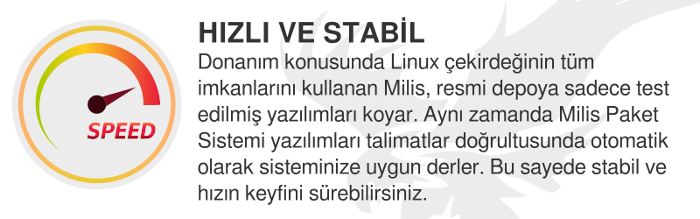
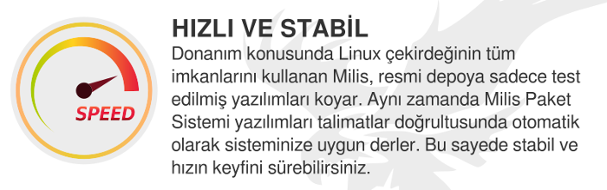
Yuzde icin farklı bir aletrnatif

diff --git a/ana.py b/ana.py
@@ -10,6 +10,7 @@ import os
 import sys
 #import site
 import yaml
+import time
 
 class merkezSinif(QMainWindow):
     def __init__(self,ebeveyn=None):
@@ -163,27 +164,29 @@ sistem başlamayacaktır."""),0,0,1,2)
     def kurulumEkraniDestesi(self):
         self.slaytnumarasi=1
         kurulumWidget=QWidget()
-        kurulumKutu=QGridLayout()
+        kurulumKutu=QVBoxLayout()
         kurulumWidget.setLayout(kurulumKutu)
+        inceleKutu=QHBoxLayout()
+        kurulumKutu.addLayout(inceleKutu)
         inceleDugme=QPushButton("İncele")
         inceleDugme.setFixedHeight(25)
         inceleDugme.pressed.connect(self.kurulumBilgiFonksiyon)
-        kurulumKutu.addWidget(inceleDugme,0,0,1,1)
+        inceleKutu.addWidget(inceleDugme)
         self.kurulumBaslatDugme=QPushButton("Kurulumu Başlat")
         self.kurulumBaslatDugme.setFixedHeight(25)
         self.kurulumBaslatDugme.pressed.connect(self.kurulumFonksiyon)
-        kurulumKutu.addWidget(self.kurulumBaslatDugme,0,1,1,1)
+        inceleKutu.addWidget(self.kurulumBaslatDugme)
         self.slaytci=QLabel("Milis yükleyici kurulum için gerekli bilgileri topladı\nBaşlata tıklamanız halinde kurulum başlayacak\nve değişiklikler disklere uygulanacaktur.")
         self.slaytci.setAlignment(Qt.AlignCenter)
         self.slaytci.setFixedWidth(800)
-        self.slaytci.setFixedHeight(250)
-        kurulumKutu.addWidget(self.slaytci,1,0,1,2)
+        self.slaytci.setFixedHeight(190)
+        kurulumKutu.addWidget(self.slaytci)
         self.kurulumBilgisiLabel=QLabel()
         self.kurulumBilgisiLabel.setFixedHeight(25)
-        kurulumKutu.addWidget(self.kurulumBilgisiLabel,2,0,1,2)
+        kurulumKutu.addWidget(self.kurulumBilgisiLabel)
         self.surecCubugu = QProgressBar()
         self.surecCubugu.setFixedHeight(25)
-        kurulumKutu.addWidget(self.surecCubugu,3,0,1,2)
+        kurulumKutu.addWidget(self.surecCubugu)
 
         self.zaman = QTimer(self)
         self.zaman.setInterval(30000)
@@ -218,7 +221,7 @@ sistem başlamayacaktır."""),0,0,1,2)
         os.system("shutdown -r now")
 
     def slaytDegistir(self):
-        self.slaytci.setPixmap(QPixmap(yol+"/slaytlar/slayt_"+str(self.slaytnumarasi)+".png").scaled(700,219))
+        self.slaytci.setPixmap(QPixmap(yol+"/slaytlar/slayt_"+str(self.slaytnumarasi)+".png").scaled(607,190))
         if self.slaytnumarasi==6:
             self.slaytnumarasi=1
         else:
@@ -273,6 +276,16 @@ sistem başlamayacaktır."""),0,0,1,2)
         self.bolumCoz(kbolum)
         self.ileriDugmeFonksiyon()
 
+    def toplamBoyutTespit(self,liste):
+        self.toplamBoyut=[]
+        for i in liste:
+            if os.path.exists("/"+i):
+                komut = "du -s /"+i
+                donut_=self.komutCalistirFonksiyon(komut)
+                donut=donut_.split("\n")
+                boyut_=donut[len(donut)-2]
+                boyut=boyut_.split("\t")
+                self.toplamBoyut.append(int(boyut[0]))
 
     def bolumCoz(self,hedef):
         komut="umount -l "+hedef
@@ -316,35 +329,40 @@ sistem başlamayacaktır."""),0,0,1,2)
         os.system(komut1)
         os.system(komut2)
         self.kurulumBilgisiLabel.setText("Dizinler kopyalanmaya başlanyor...")
-        dizinler=["bin","boot","home","lib","sources","usr","depo","etc","include","lib64","opt","root","sbin","var"]
+        dizinler=["bin","boot","home","lib","sources","usr","depo","etc","lib64","opt","root","sbin","var"]
         yenidizinler=["srv","proc","tmp","mnt","sys","run","dev","media"]
-        i=0
+        self.toplamBoyutTespit(dizinler)
+        print(self.toplamBoyut)
+        self.baglam=baglam
+        self.prgresDongu=True
+        progresThread=progressAyarciSinif(self)
+        progresThread.start()
+
+        self.dizinSirasi=0
         mikdiz=len(dizinler)
         for dizin in dizinler:
-            i+=1
-            self.kurulumBilgisiLabel.setText(str(i)+"/"+str(mikdiz)+dizin+" kopyalanıyor...")
+            self.kopyalanacakDizinAdi=dizin
+            self.dizinSirasi+=1
+            self.kurulumBilgisiLabel.setText(str(self.dizinSirasi)+"/"+str(mikdiz)+dizin+" kopyalanıyor...")
             komut="rsync --delete -a /"+dizin+" "+baglam+" --exclude /proc"
             os.system(komut)
-            yuzde = str(round(i/mikdiz,2))[2:]
-            if len(yuzde) == 1:
-                yuzde = yuzde + "0"
-            self.surecCubugu.setValue(int(yuzde))
-            self.kurulumBilgisiLabel.setText(dizin+" kopyalandı.")
             qApp.processEvents()
+
         self.surecCubugu.setValue(0)
         self.kurulumBilgisiLabel.setText("Yeni Dizinler Oluşturuluyor...")
+
+        self.prgresDongu=False
         i=0
         mikdiz=len(yenidizinler)
         for ydizin in yenidizinler:
             i+=1
-            self.kurulumBilgisiLabel.setText(ydizin+" oluşturuluyor...")
             komut="mkdir -p "+baglam+"/"+ydizin
             os.system(komut)
             yuzde = str(round(i/mikdiz,2))[2:]
             if len(yuzde) == 1:
                 yuzde = yuzde + "0"
             self.surecCubugu.setValue(int(yuzde))
-            self.kurulumBilgisiLabel.setText(ydizin+" oluşturuldu.")
+            self.kurulumBilgisiLabel.setText(dizin+" kopyalandı.")
             qApp.processEvents()
 
     def kullaniciOlustur(self,isim,kullisim,kullsifre):
@@ -588,8 +606,11 @@ sistem başlamayacaktır."""),0,0,1,2)
         self.yiginWidget.setCurrentIndex(self.yiginNumarasi)
 
     def komutCalistirFonksiyon(self,komut):
-        out = subprocess.check_output(komut,stderr=subprocess.STDOUT,shell=True,universal_newlines=True)
-        return out.replace("\b","")
+        try:
+            out = subprocess.check_output(komut,stderr=subprocess.STDOUT,shell=True,universal_newlines=True)
+            return out.replace("\b","")
+        except subprocess.CalledProcessError as e:
+            return e.output
 
     def kurulum_oku(self,kurulumdos):
         with open(kurulumdos, 'r') as f:
@@ -601,9 +622,39 @@ sistem başlamayacaktır."""),0,0,1,2)
             yaml.dump(param, outfile, default_flow_style=False,allow_unicode=True)
 
 
+class progressAyarciSinif(QThread):
+    def __init__(self,ebeveyn=None):
+        super(progressAyarciSinif,self).__init__(ebeveyn)
+        self.ebeveyn = ebeveyn
 
+    def run(self):
+        while self.ebeveyn.prgresDongu:
+            self.guncelle()
+            time.sleep(1)
+        print("basladi")
 
+    def guncelle(self):
+        boyut=self.boyutTespit()
+        toplamBoyut=self.ebeveyn.toplamBoyut[self.ebeveyn.dizinSirasi-1]
+        if boyut<toplamBoyut:
+            yuzde = str(round(boyut/toplamBoyut,2))[2:]
+            if len(yuzde) == 1:
+                yuzde = yuzde + "0"
+            self.ebeveyn.surecCubugu.setValue(int(yuzde))
+            print(yuzde)
+        else:
+            self.ebeveyn.surecCubugu.setValue(100)
 
+    def boyutTespit(self):
+        try:
+            komut = "du -s "+self.ebeveyn.baglam+"/"+self.ebeveyn.kopyalanacakDizinAdi
+            donut_=self.ebeveyn.komutCalistirFonksiyon(komut)
+            donut=donut_.split("\n")
+            boyut_=donut[len(donut)-2]
+            boyut=boyut_.split("\t")
+            return int(boyut[0])
+        except:
+            return 0
 
 
 class diskOzellikleriSinif(QDialog):
